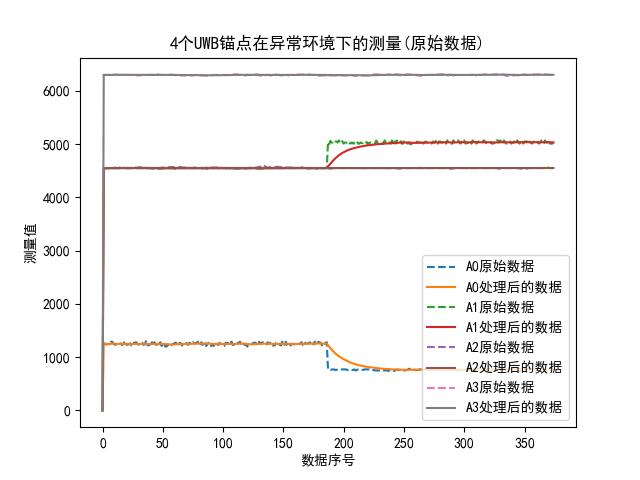
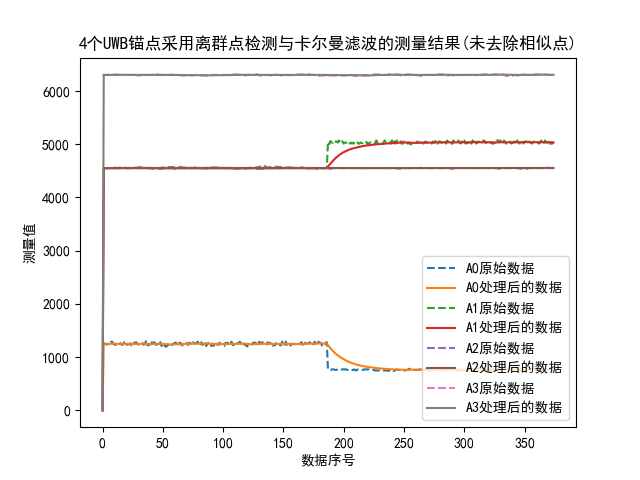
Merge remote-tracking branch 'origin/master'
# Conflicts:
#	.idea/workspace.xml
data_process改进前，82.正常txt的非相似点的判断有重大改进

diff --git a/1_plotFourPictures.py b/1_plotFourPictures.py
@@ -12,7 +12,7 @@ iteration_num = 2  # 要调整的参数，这个是迭代次数
 
 def data_check(original_data, final_processed_data):
     plt.figure()
-    plt.title(u"4个UWB锚点在异常环境下的测量(离群点去除+卡尔曼滤波)")
+    plt.title(u"4个UWB锚点采用离群点检测与卡尔曼滤波的测量结果(未去除相似点)")
     plt.xlabel(u"数据序号")
     plt.ylabel(u"测量值")
     for i in range(4):
@@ -156,13 +156,13 @@ def calculate_num_of_dissimilar_data(save_path):
     for i in range(1, 325):
         file_path = "./data/附件1：UWB数据集/正常数据/" + str(i) + ".正常.txt"
         original_data, final_processed_data = data_process(file_path)
-        dissimilar_data = clean_similar_data(final_processed_data, accuracy=20)
+        dissimilar_data = clean_similar_data(final_processed_data, accuracy=10)
         normal_data.append(dissimilar_data.shape[1])
 
     for i in range(1, 325):
         file_path = "./data/附件1：UWB数据集/异常数据/" + str(i) + ".异常.txt"
         original_data, final_processed_data = data_process(file_path)
-        dissimilar_data = clean_similar_data(final_processed_data, accuracy=20)
+        dissimilar_data = clean_similar_data(final_processed_data, accuracy=10)
         abnormal_data.append(dissimilar_data.shape[1])
 
     with open(save_path, "w+", newline="") as datacsv:
@@ -170,16 +170,22 @@ def calculate_num_of_dissimilar_data(save_path):
         csvwriter = csv.writer(datacsv, dialect=("excel"))
         # csv文件插入一行数据，把下面列表中的每一项放入一个单元格（可以用循环插入多行）
         csvwriter.writerow(["Document Number", "The Number of Dissimilar Data"])
-
+        for i in range(1,325):
+            csvwriter.writerow([str(i)+".normal_document",normal_data[i-1]])
+        csvwriter.writerow([])
+        csvwriter.writerow([])
+        csvwriter.writerow(["Document Number", "The Number of Dissimilar Data"])
+        for i in range(1,325):
+            csvwriter.writerow([str(i)+".abnormal_document",abnormal_data[i-1]])
 
 if __name__ == '__main__':
-    calculate_num_of_dissimilar_data("./submit/task1/所有文件的异常点数量统计.csv")
-    file_path = ["data/附件1：UWB数据集/正常数据/24.正常.txt", "data/附件1：UWB数据集/正常数据/109.正常.txt", "data/附件1：UWB数据集/异常数据/1.异常.txt",
+    file_path = ["data/附件1：UWB数据集/正常数据/82.正常.txt", "data/附件1：UWB数据集/正常数据/109.正常.txt", "data/附件1：UWB数据集/异常数据/1.异常.txt",
                  "data/附件1：UWB数据集/异常数据/100.异常.txt"]
-    save_path = ["submit/task1/正常数据/24.正常.csv", "submit/task1/正常数据/109.正常.csv", "submit/task1/异常数据/1.异常.csv",
+    save_path = ["submit/task1/正常数据/82.正常.csv", "submit/task1/正常数据/109.正常.csv", "submit/task1/异常数据/1.异常.csv",
                  "submit/task1/异常数据/100.异常.csv"]
     for i in range(4):
         original_data, final_processed_data = data_process(file_path[i])
-        dissimilar_data = clean_similar_data(final_processed_data, accuracy=20)
+        dissimilar_data = clean_similar_data(final_processed_data, accuracy=10)
         save_data(save_path[i], dissimilar_data)
         data_check(original_data, final_processed_data)
+    #calculate_num_of_dissimilar_data("./submit/task1/所有文件的异常点数量统计.csv")
